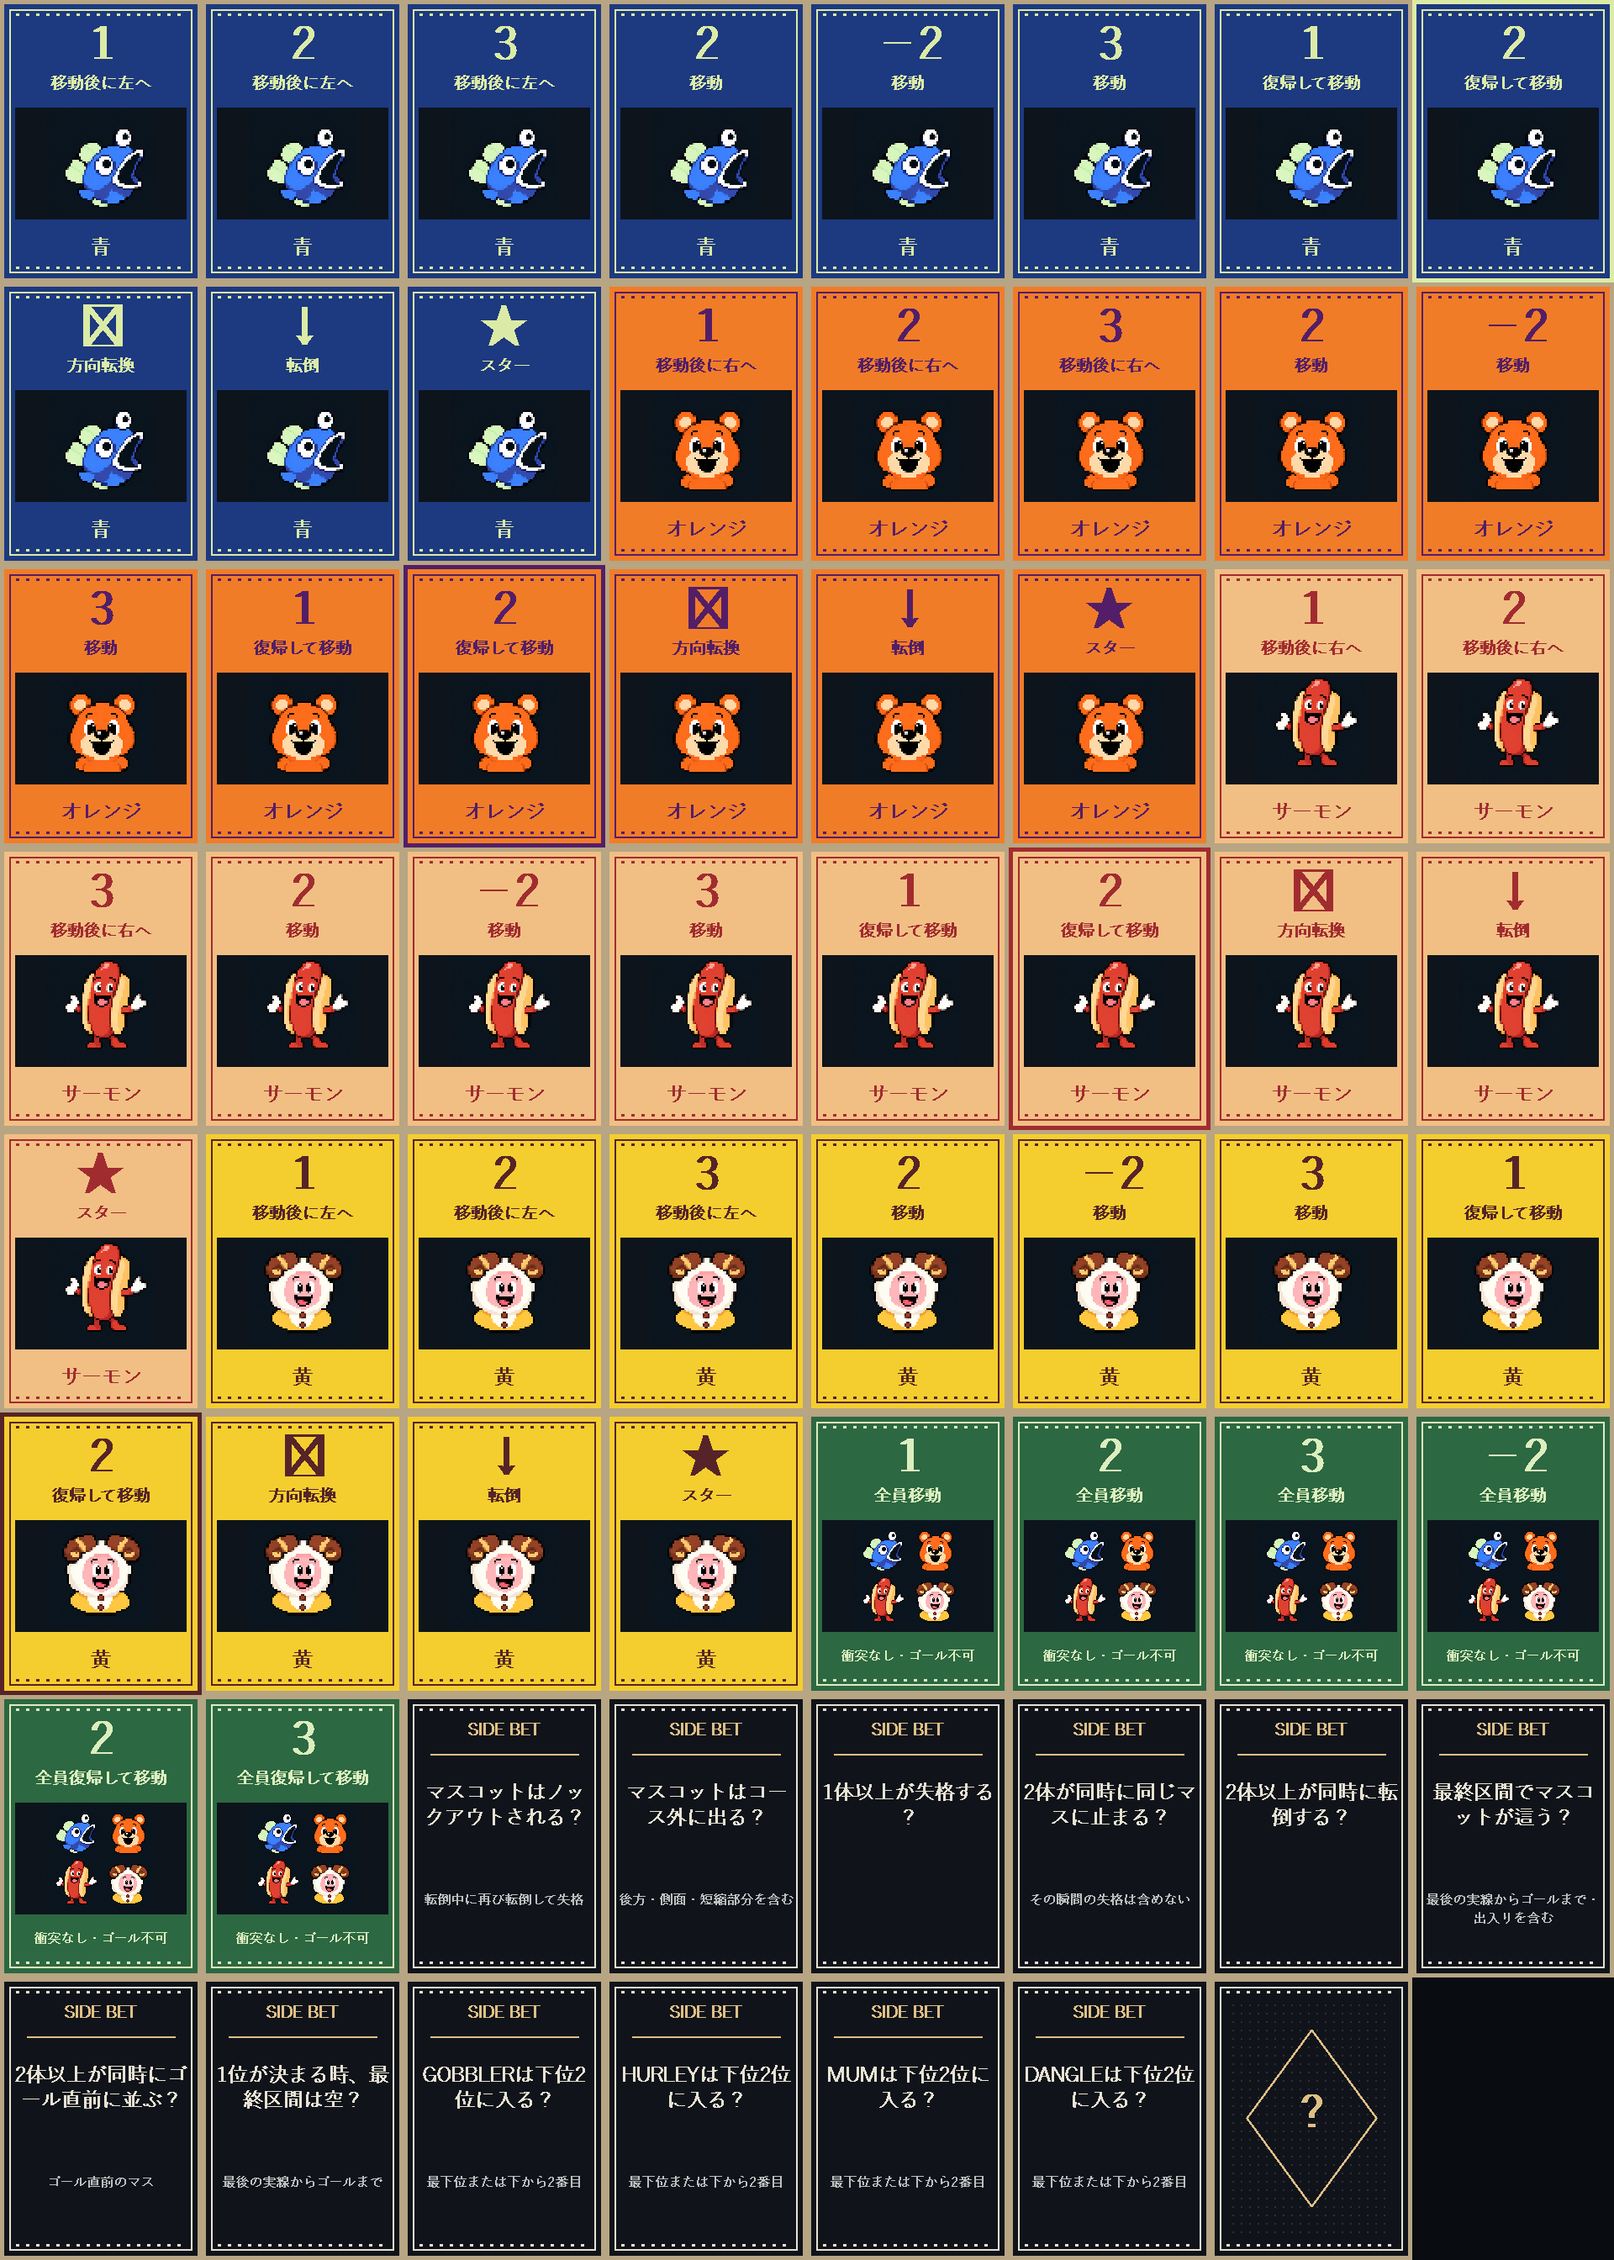
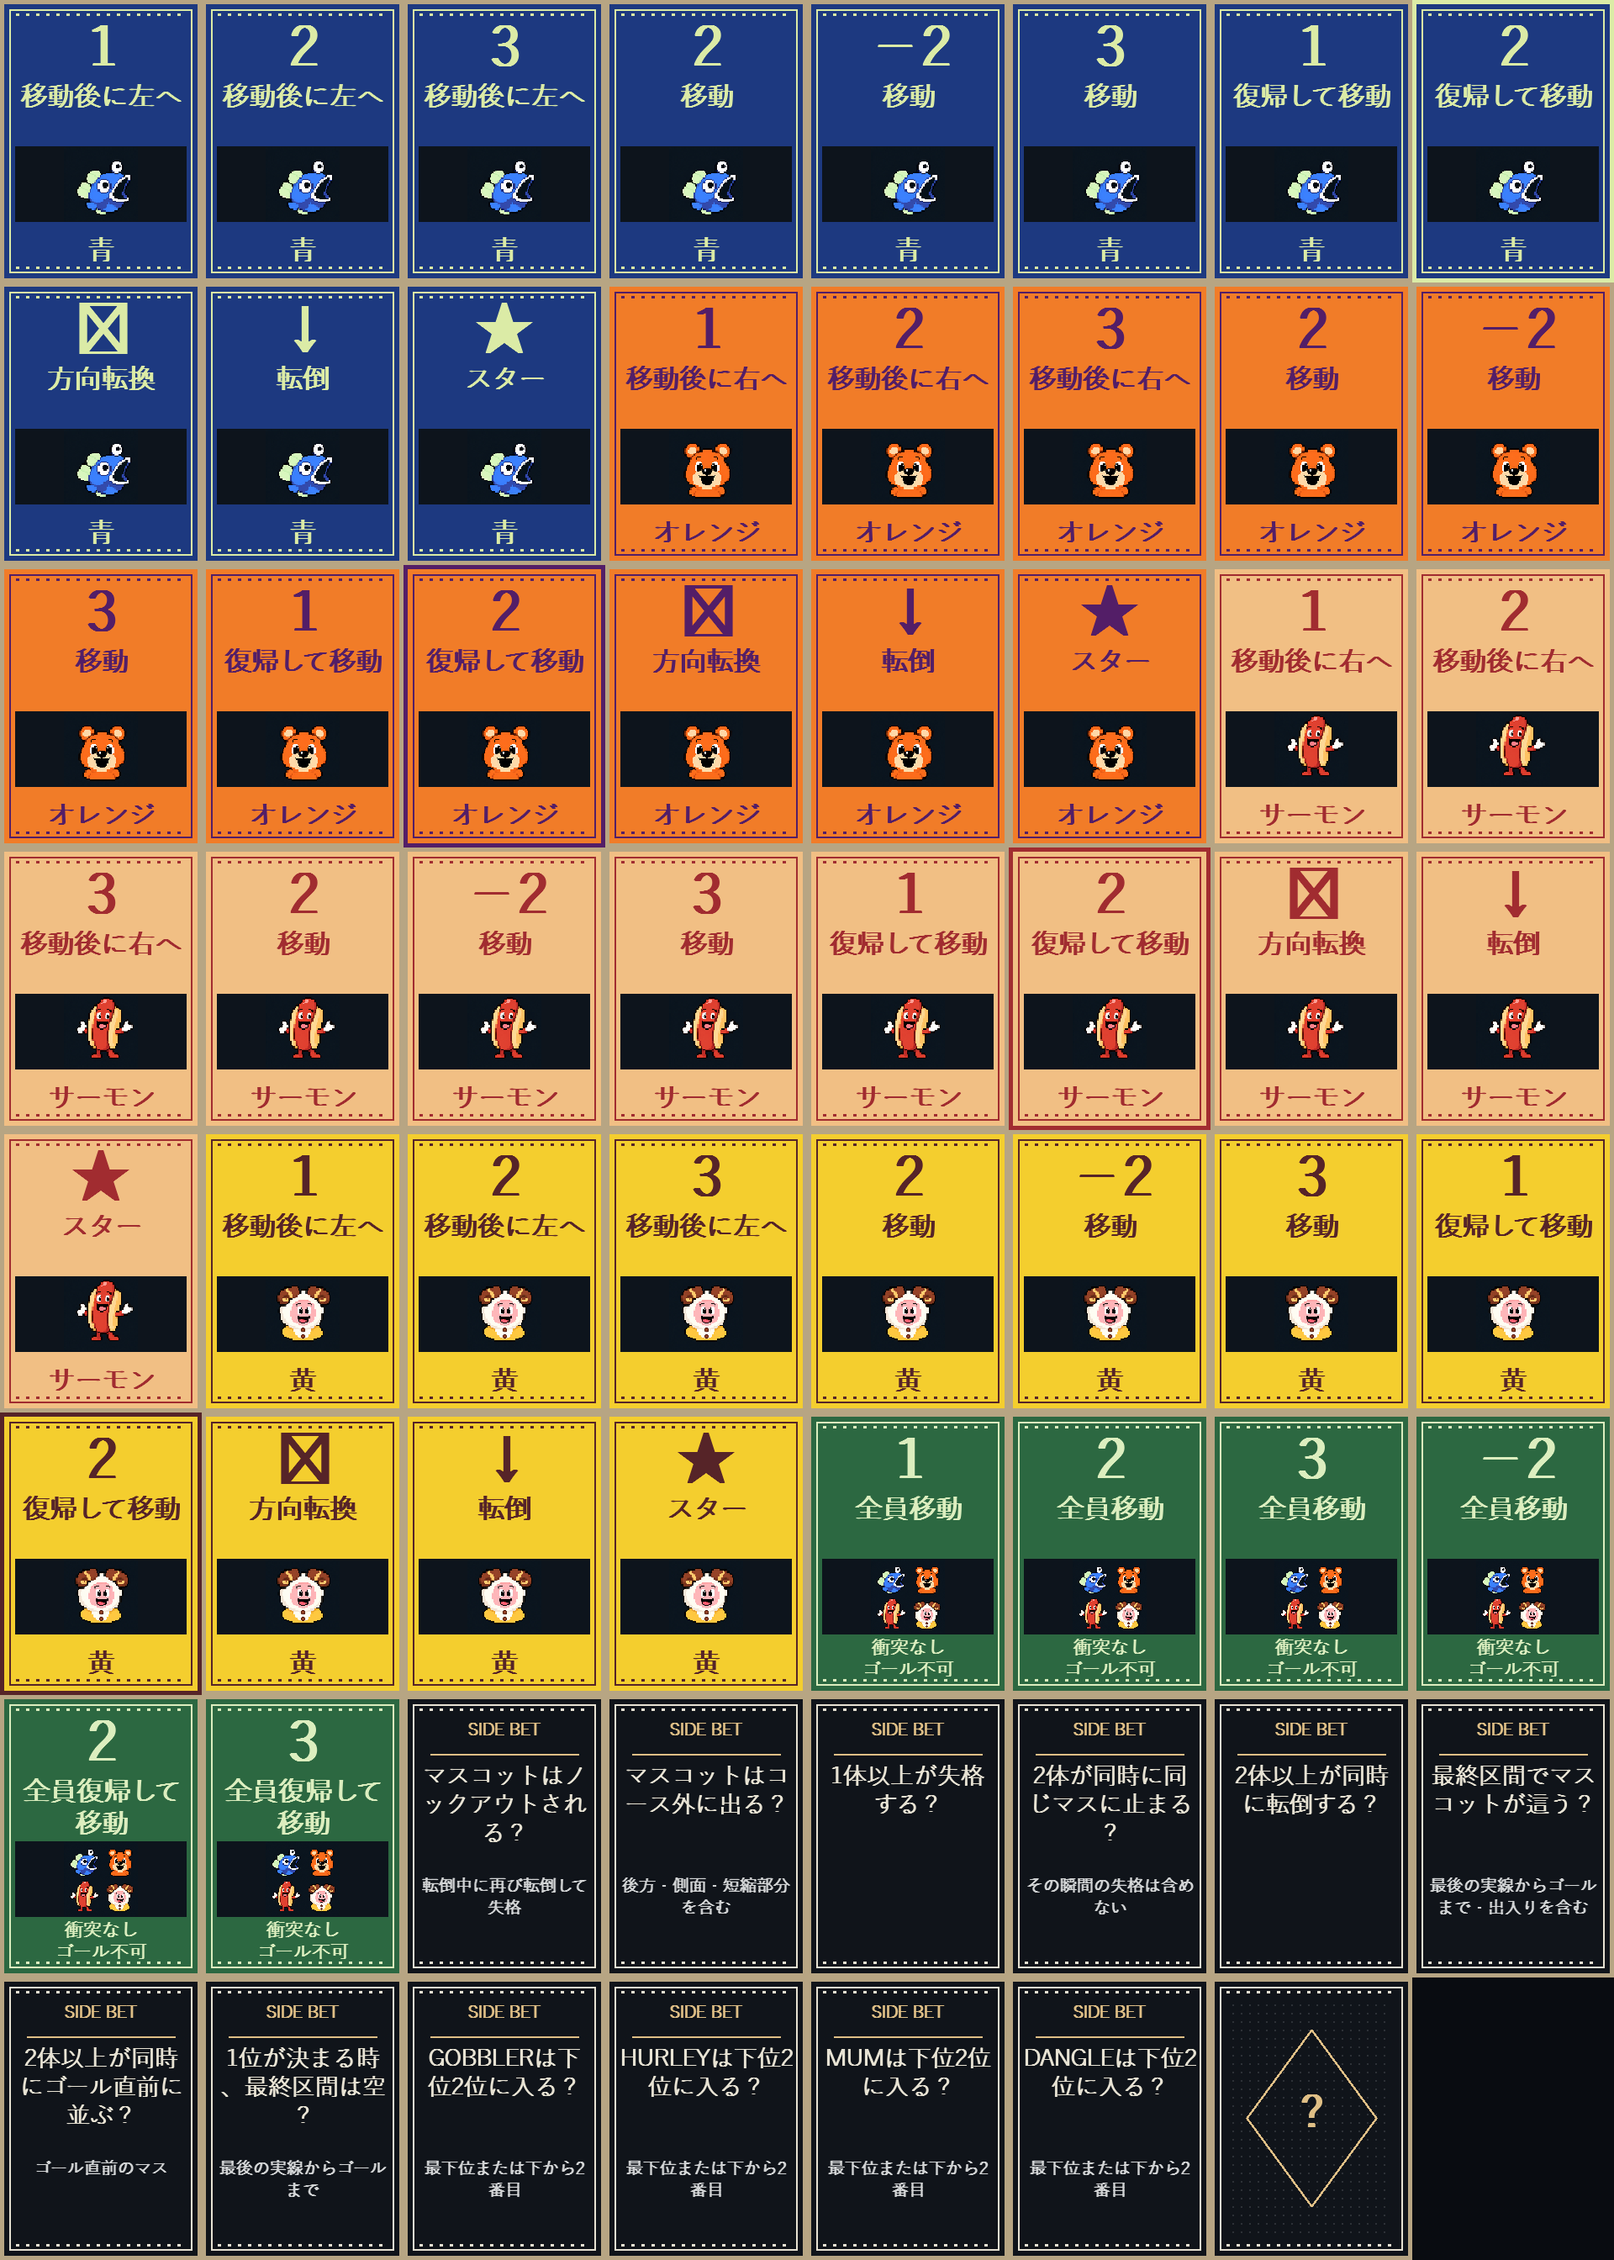
update: 共通カードの文字を拡大して読みやすくする
ユーザー指摘により数字64px・効果32px・イベント本文28pxへ拡大。効果の2行分の領域を確保し、緑の注意事項を2行に分ける。縮小時の文字の欠けを抑えるため平滑縮小を採用する。

diff --git a/tools/card-assets/build.py b/tools/card-assets/build.py
@@ -42,7 +42,7 @@ def build():
     font_path = pygame.font.match_font("yugothic,meiryo,notosanscjk,ipagothic")
     if not font_path:
         raise RuntimeError("日本語フォントが必要です")
-    fonts = {size: pygame.font.Font(font_path, size) for size in (16, 20, 24, 32, 52)}
+    fonts = {size: pygame.font.Font(font_path, size) for size in (16, 20, 22, 24, 28, 32, 52, 64)}
     for font in fonts.values():
         font.set_bold(True)
     def text(surf, words, y, size, color, width=208):
@@ -55,7 +55,7 @@ def build():
                 line += char
         lines.append(line)
         for line in lines:
-            img = fonts[size].render(line, False, color)
+            img = fonts[size].render(line, True, color)
             surf.blit(img, ((W - img.get_width()) // 2, y))
             y += size + 6
         return y
@@ -83,23 +83,24 @@ def build():
             pygame.draw.rect(surf, ink, (x, 16, 4, 3))
             pygame.draw.rect(surf, ink, (x, H-19, 4, 3))
         if kind == "race":
-            text(surf, number, 25, 52, ink)
-            text(surf, label, 88, 20, ink)
-            pygame.draw.rect(surf, (13, 20, 28), (18, 128, 204, 133))
+            text(surf, number, 22, 64, ink)
+            text(surf, label, 97, 32, ink)
+            pygame.draw.rect(surf, (13, 20, 28), (18, 174, 204, 90))
             if color == "green":
                 for i in range(4):
-                    sprite = pygame.transform.scale(icons.subsurface((i*128, 0, 128, 128)), (64, 64))
-                    surf.blit(sprite, (56 + i%2*64, 130+i//2*64))
-                text(surf, "衝突なし・ゴール不可", 280, 16, ink)
+                    sprite = pygame.transform.scale(icons.subsurface((i*128, 0, 128, 128)), (44, 44))
+                    surf.blit(sprite, (76 + i%2*44, 175+i//2*44))
+                text(surf, "衝突なし", 267, 22, ink)
+                text(surf, "ゴール不可", 293, 22, ink)
             else:
-                surf.blit(icons.subsurface(rects[color]), (56, 130))
-                text(surf, LABELS[color], 280, 24, ink)
+                surf.blit(pygame.transform.scale(icons.subsurface(rects[color]), (88, 88)), (76, 175))
+                text(surf, LABELS[color], 280, 32, ink)
         elif kind == "event":
             text(surf, "SIDE BET", 30, 20, (223, 191, 134))
             pygame.draw.line(surf, (223, 191, 134), (32, 70), (208, 70), 2)
-            end = text(surf, label, 102, 24, ink)
+            end = text(surf, label, 81, 28, ink)
             if note:
-                text(surf, note, max(234, end + 16), 16, (189, 192, 193))
+                text(surf, note, max(216, end + 4), 20, (210, 212, 213))
         else:
             for y in range(32, H-28, 10):
                 for x in range(26, W-24, 10):

diff --git a/src/hotstreak_display/card_assets.py b/src/hotstreak_display/card_assets.py
@@ -22,7 +22,7 @@ class CardAssets:
         key = (card_id, tuple(size))
         if key not in self.cache:
             entry = self.cards[card_id]
-            self.cache[key] = pygame.transform.scale(self.sheet.subsurface(entry["rect"]), size)
+            self.cache[key] = pygame.transform.smoothscale(self.sheet.subsurface(entry["rect"]), size)
         return self.cache[key]
 
     def icon(self, color, size):
